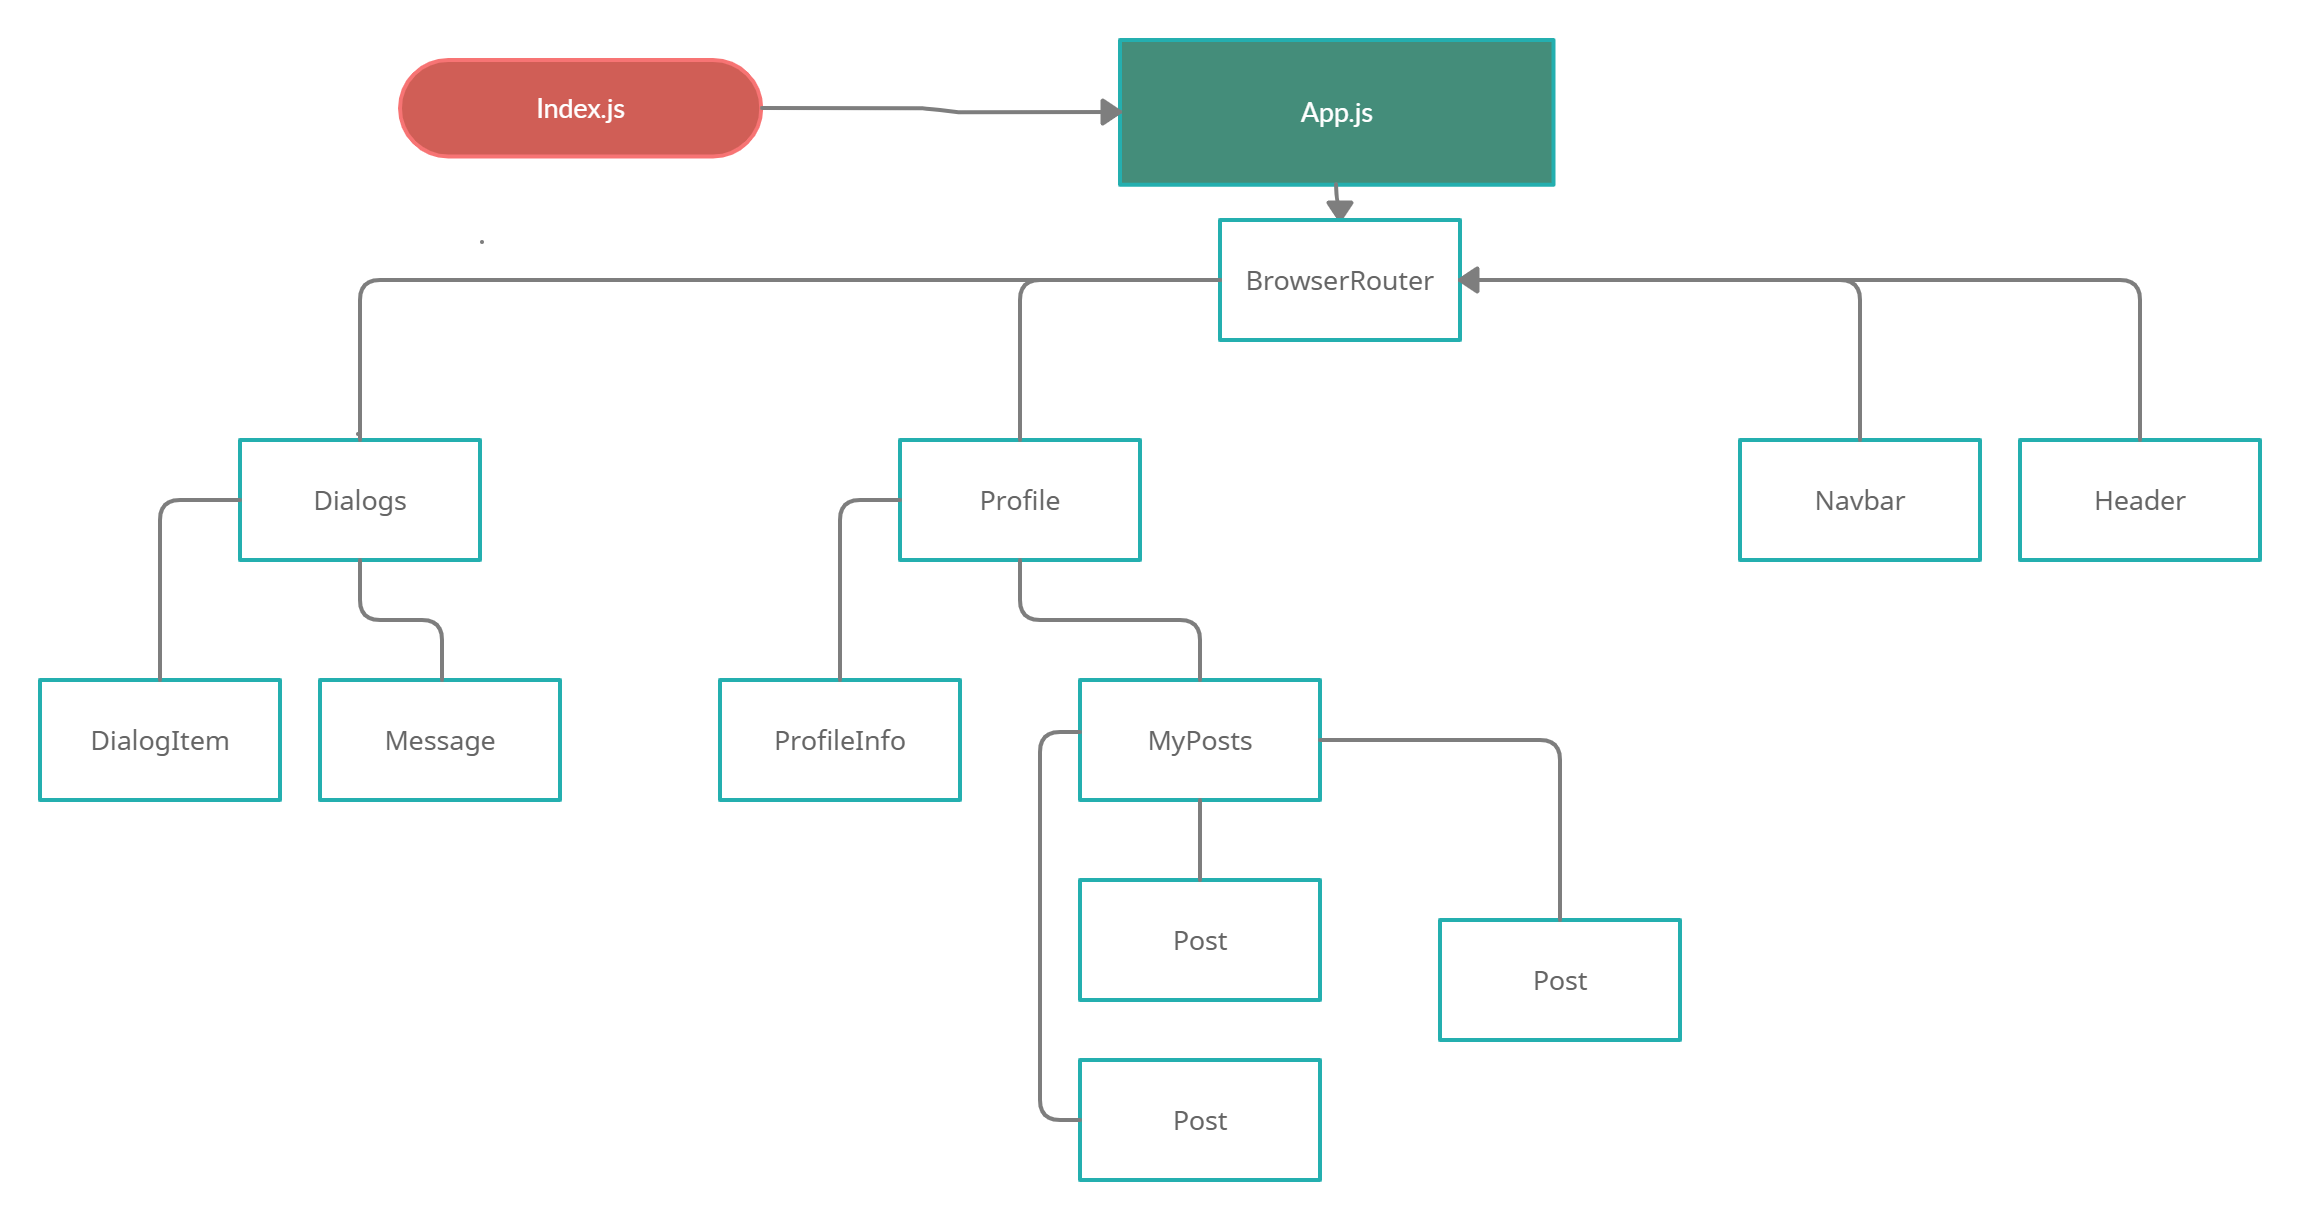
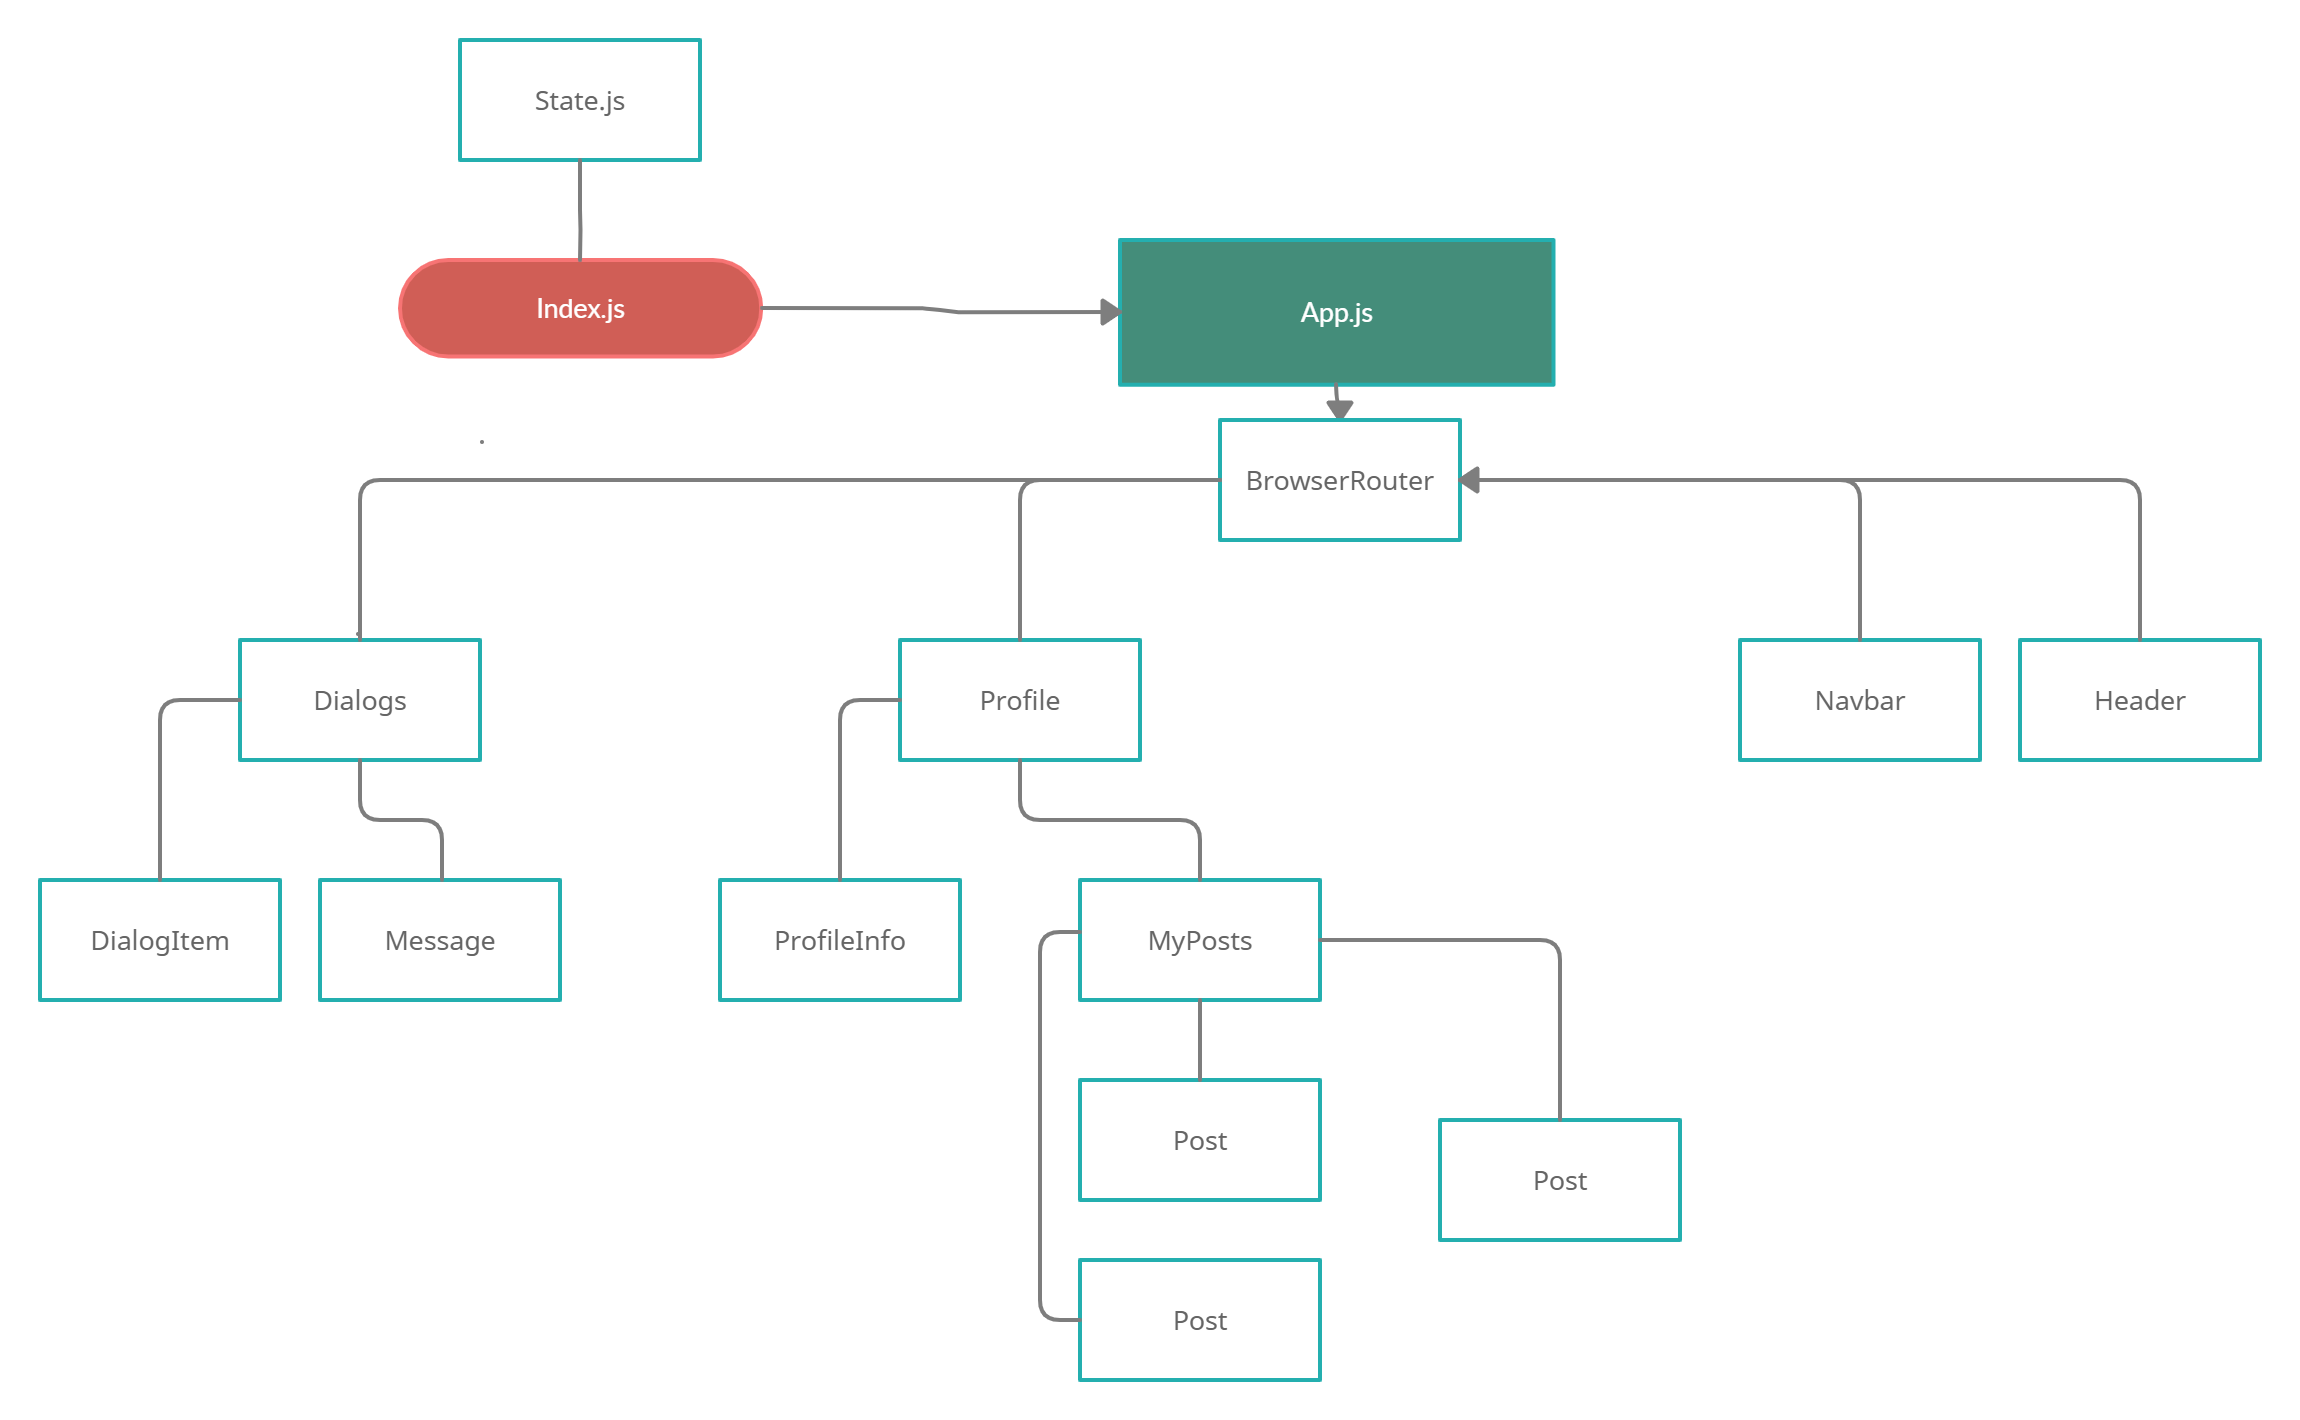
Lesson 31 passed, pretty code format

diff --git a/src/redux/State.js b/src/redux/State.js
@@ -9,12 +9,28 @@ let state = {
     },
     dialogsPage: {
         dialogs: [
-            {id: 1, name: 'Dimych', avaSrc:'https://icons.iconarchive.com/icons/hopstarter/face-avatars/256/Male-Face-H4-icon.png'},
-            {id: 1, name: 'Andrey', avaSrc:'https://www.stickees.com/files/avatars/male-avatars/1697-andrew-sticker.png'},
-            {id: 1, name: 'Sveta', avaSrc:'https://cf.ltkcdn.net/socialnetworking/images/std/168795-400x400-Female-Avatar-2-lg.jpg'},
-            {id: 1, name: 'Sasha', avaSrc:'https://icons.iconarchive.com/icons/hopstarter/face-avatars/256/Male-Face-D4-icon.png'},
-            {id: 1, name: 'Viktor', avaSrc:'https://icon-library.com/images/male-avatar-icon/male-avatar-icon-14.jpg'},
-            {id: 1, name: 'Valera', avaSrc:'https://ru.seaicons.com/wp-content/uploads/2015/10/Male-Face-M5-icon.png'},
+            {
+                id: 1,
+                name: 'Dimych',
+                avaSrc: 'https://icons.iconarchive.com/icons/hopstarter/face-avatars/256/Male-Face-H4-icon.png'
+            },
+            {
+                id: 1,
+                name: 'Andrey',
+                avaSrc: 'https://www.stickees.com/files/avatars/male-avatars/1697-andrew-sticker.png'
+            },
+            {
+                id: 1,
+                name: 'Sveta',
+                avaSrc: 'https://cf.ltkcdn.net/socialnetworking/images/std/168795-400x400-Female-Avatar-2-lg.jpg'
+            },
+            {
+                id: 1,
+                name: 'Sasha',
+                avaSrc: 'https://icons.iconarchive.com/icons/hopstarter/face-avatars/256/Male-Face-D4-icon.png'
+            },
+            {id: 1, name: 'Viktor', avaSrc: 'https://icon-library.com/images/male-avatar-icon/male-avatar-icon-14.jpg'},
+            {id: 1, name: 'Valera', avaSrc: 'https://ru.seaicons.com/wp-content/uploads/2015/10/Male-Face-M5-icon.png'},
         ],
         messages: [
             {id: 1, message: 'Hi'},

diff --git a/src/components/Profile/MyPosts/Post/Post.jsx b/src/components/Profile/MyPosts/Post/Post.jsx
@@ -2,20 +2,21 @@ import React from "react";
 import s from "./Post.module.css";
 
 const Post = (props) => {
-  return (
-    <div className={s.item}>
-      <img className={s.item_img}
-        src="http://sun9-25.userapi.com/s/v1/if2/tmMB0RA0clp6jtxedDiKY0XYf7g_lL0GQIJPfjELJB7rygcvaWymvqaIcGif2y-z4-oxJaJoK6pkQ0pJDK-eZORR.jpg?size=200x0&quality=96&crop=0,20,200,237&ava=1"
-        alt=""
-      />
-      {props.message}
-      <div>
+    return (
+        <div className={s.item}>
+            <img className={s.item_img}
+                 src="http://sun9-25.userapi.com/s/v1/if2/tmMB0RA0clp6jtxedDiKY0XYf7g_lL0GQIJPfjELJB7rygcvaWymvqaIcGif2y-z4-oxJaJoK6pkQ0pJDK-eZORR.jpg?size=200x0&quality=96&crop=0,20,200,237&ava=1"
+                 alt=""
+            />
+            {props.message}
+            <div>
         <span>
-           <img className={s.lcounter_img} src="https://freeiconshop.com/wp-content/uploads/edd/like-outline.png" alt=""/>{props.lcounter}</span>
-        <span> like</span>
-      </div>
-    </div>
-  );
+           <img className={s.lcounter_img} src="https://freeiconshop.com/wp-content/uploads/edd/like-outline.png"
+                alt=""/>{props.lcounter}</span>
+                <span> like</span>
+            </div>
+        </div>
+    );
 };
 
 export default Post;

diff --git a/src/App.js b/src/App.js
@@ -9,15 +9,15 @@ import Profile from "./components/Profile/Profile";
 
 const App = (props) => {
     return (
-            <div className='app-wrapper'>
-                <Header/>
-                <Navbar/>
-                <div className='app-wrapper-content'>
-                    <Route path='/profile' render={() => <Profile state={props.state.profilePage} />}/>
-                    <Route path='/dialogs' render={() => <Dialogs
-                        state={props.state.dialogsPage} />}/>
-                </div>
+        <div className='app-wrapper'>
+            <Header/>
+            <Navbar/>
+            <div className='app-wrapper-content'>
+                <Route path='/profile' render={() => <Profile state={props.state.profilePage}/>}/>
+                <Route path='/dialogs' render={() => <Dialogs
+                    state={props.state.dialogsPage}/>}/>
             </div>
+        </div>
     );
 }
 

diff --git a/src/components/Header/Header.jsx b/src/components/Header/Header.jsx
@@ -3,9 +3,10 @@ import s from './Header.module.css';
 
 const Header = () => {
     return <header className={s.header}>
-    <img src='https://logoeps.com/wp-content/uploads/2014/09/23689-chrome-logo-icon-vector-icon-vector-eps.png' alt ='logo' />
-    <span className={s.logoText}>One another social network</span>
-  </header>
+        <img src='https://logoeps.com/wp-content/uploads/2014/09/23689-chrome-logo-icon-vector-icon-vector-eps.png'
+             alt='logo'/>
+        <span className={s.logoText}>One another social network</span>
+    </header>
 }
 
 export default Header;

diff --git a/src/components/Navbar/Navbar.module.css b/src/components/Navbar/Navbar.module.css
@@ -3,7 +3,8 @@
     background-color: burlywood;
     height: 100%;
     padding-left: 20px;
-    text-shadow: 2px 2px 0 #4074b5, 2px -2px 0 #4074b5, -2px 2px 0 #4074b5, -2px -2px 0 #4074b5, 2px 0px 0 #4074b5, 0px 2px 0 #4074b5, -2px 0px 0 #4074b5, 0px -2px 0 #4074b5;}
+    text-shadow: 2px 2px 0 #4074b5, 2px -2px 0 #4074b5, -2px 2px 0 #4074b5, -2px -2px 0 #4074b5, 2px 0px 0 #4074b5, 0px 2px 0 #4074b5, -2px 0px 0 #4074b5, 0px -2px 0 #4074b5;
+}
 
 .item a {
     color: white;

diff --git a/src/components/Dialogs/Dialogs.jsx b/src/components/Dialogs/Dialogs.jsx
@@ -24,10 +24,10 @@ const Dialogs = (props) => {
                 {messagesElements}
             </div>
             <div>
-                <textarea ref={newDialogElement} />
+                <textarea ref={newDialogElement}/>
             </div>
             <div>
-                <button onClick={addDialog}>Add new dialog </button>
+                <button onClick={addDialog}>Add new dialog</button>
             </div>
 
         </div>

diff --git a/src/components/Profile/MyPosts/MyPosts.jsx b/src/components/Profile/MyPosts/MyPosts.jsx
@@ -17,7 +17,7 @@ const MyPosts = (props) => {
             <h3>My posts</h3>
             <div>
                 <div>
-                    <textarea ref={newPostElement} />
+                    <textarea ref={newPostElement}/>
                 </div>
                 <div>
                     <button onClick={addPost}>Add new post</button>

diff --git a/src/components/Profile/MyPosts/Post/Post.module.css b/src/components/Profile/MyPosts/Post/Post.module.css
@@ -1,12 +1,14 @@
 .item {
-  color:greenyellow;
+    color: greenyellow;
 }
+
 .item_img {
-  width: 50px;
-  height: 50px;
-  border-radius: 50px;
+    width: 50px;
+    height: 50px;
+    border-radius: 50px;
 }
-.lcounter_img{
-  width: 30px;
-  height: 30px;
+
+.lcounter_img {
+    width: 30px;
+    height: 30px;
 }

diff --git a/src/index.js b/src/index.js
@@ -3,7 +3,7 @@ import ReactDOM from 'react-dom';
 import './index.css';
 import App from './App';
 import * as serviceWorker from './serviceWorker';
-import state  from "./redux/State";
+import state from "./redux/State";
 import {BrowserRouter} from "react-router-dom";
 
 ReactDOM.render(

diff --git a/src/components/Profile/Profile.jsx b/src/components/Profile/Profile.jsx
@@ -5,7 +5,7 @@ import ProfileInfo from "./MyPosts/ProfileInfo/ProfileInfo";
 
 const Profile = (props) => {
     return <div>
-        <ProfileInfo  />
+        <ProfileInfo/>
         <MyPosts posts={props.state.posts}/>
     </div>
 }

diff --git a/src/components/Dialogs/Dialogs.module.css b/src/components/Dialogs/Dialogs.module.css
@@ -7,9 +7,11 @@
     padding: 10px;
     color: white;
 }
+
 .dialogsItems img {
     width: 40px;
 }
+
 .dialogsItems a.active {
     color: gold;
 }
